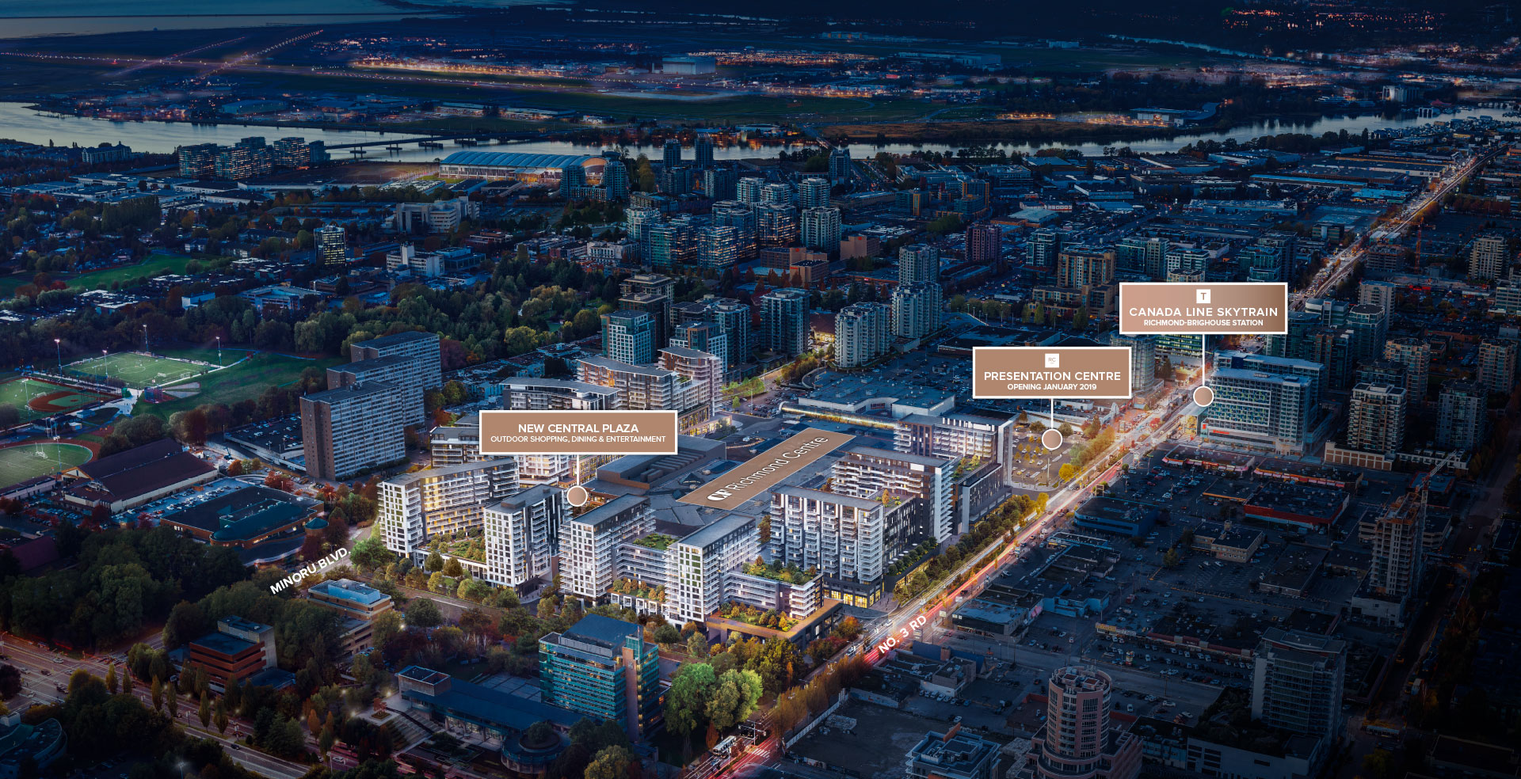
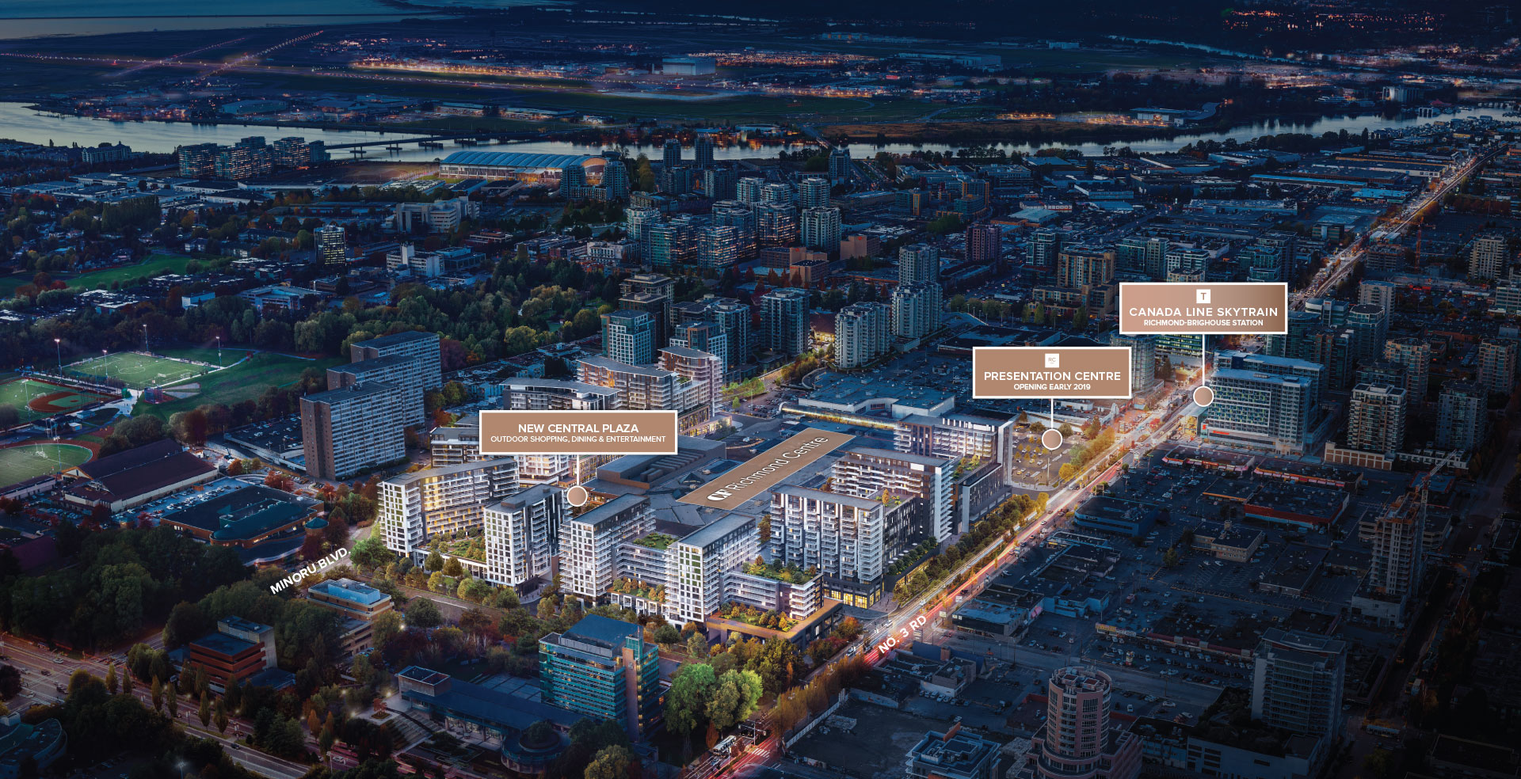
Change opening wording

diff --git a/src/contest.html b/src/contest.html
@@ -206,7 +206,7 @@
                 <span>(across from Richmond-Brighouse Station)</span>
               </p>
   
-              <p class="lead text-uppercase">Opening January 2019</p>
+              <p class="lead text-uppercase">Opening Early 2019</p>
             </div>
           </div>
   

diff --git a/src/index.html b/src/index.html
@@ -295,7 +295,7 @@
               <span>(across from Richmond-Brighouse Station)</span>
             </p>
 
-            <p class="lead text-uppercase">Opening January 2019</p>
+            <p class="lead text-uppercase">Opening Early 2019</p>
           </div>
         </div>
 

diff --git a/src/index-zh.html b/src/index-zh.html
@@ -276,7 +276,7 @@
               <span>(Richmond-Brighouse 天車站對面)</span>
             </p>
 
-            <p class="lead text-uppercase">2019年1月開幕</p>
+            <p class="lead text-uppercase">2019年初開業</p>
           </div>
         </div>
 
